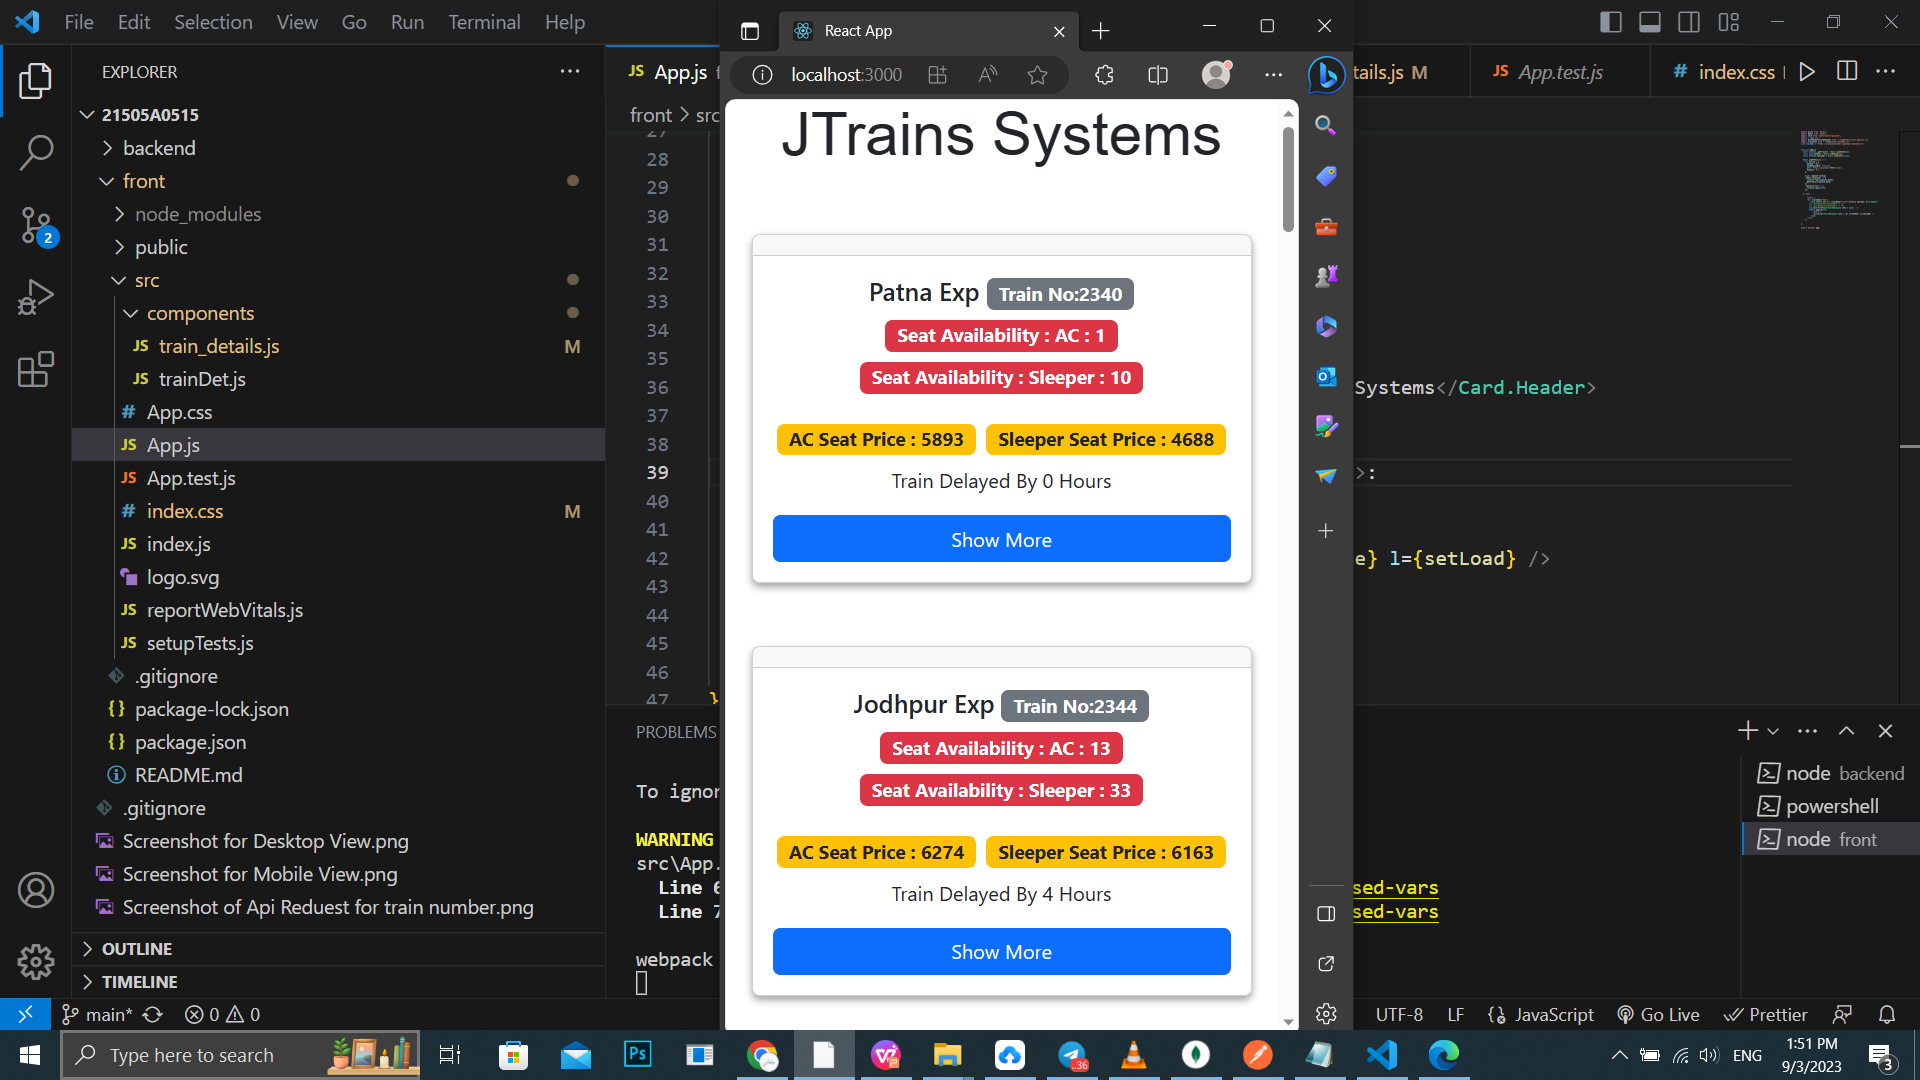
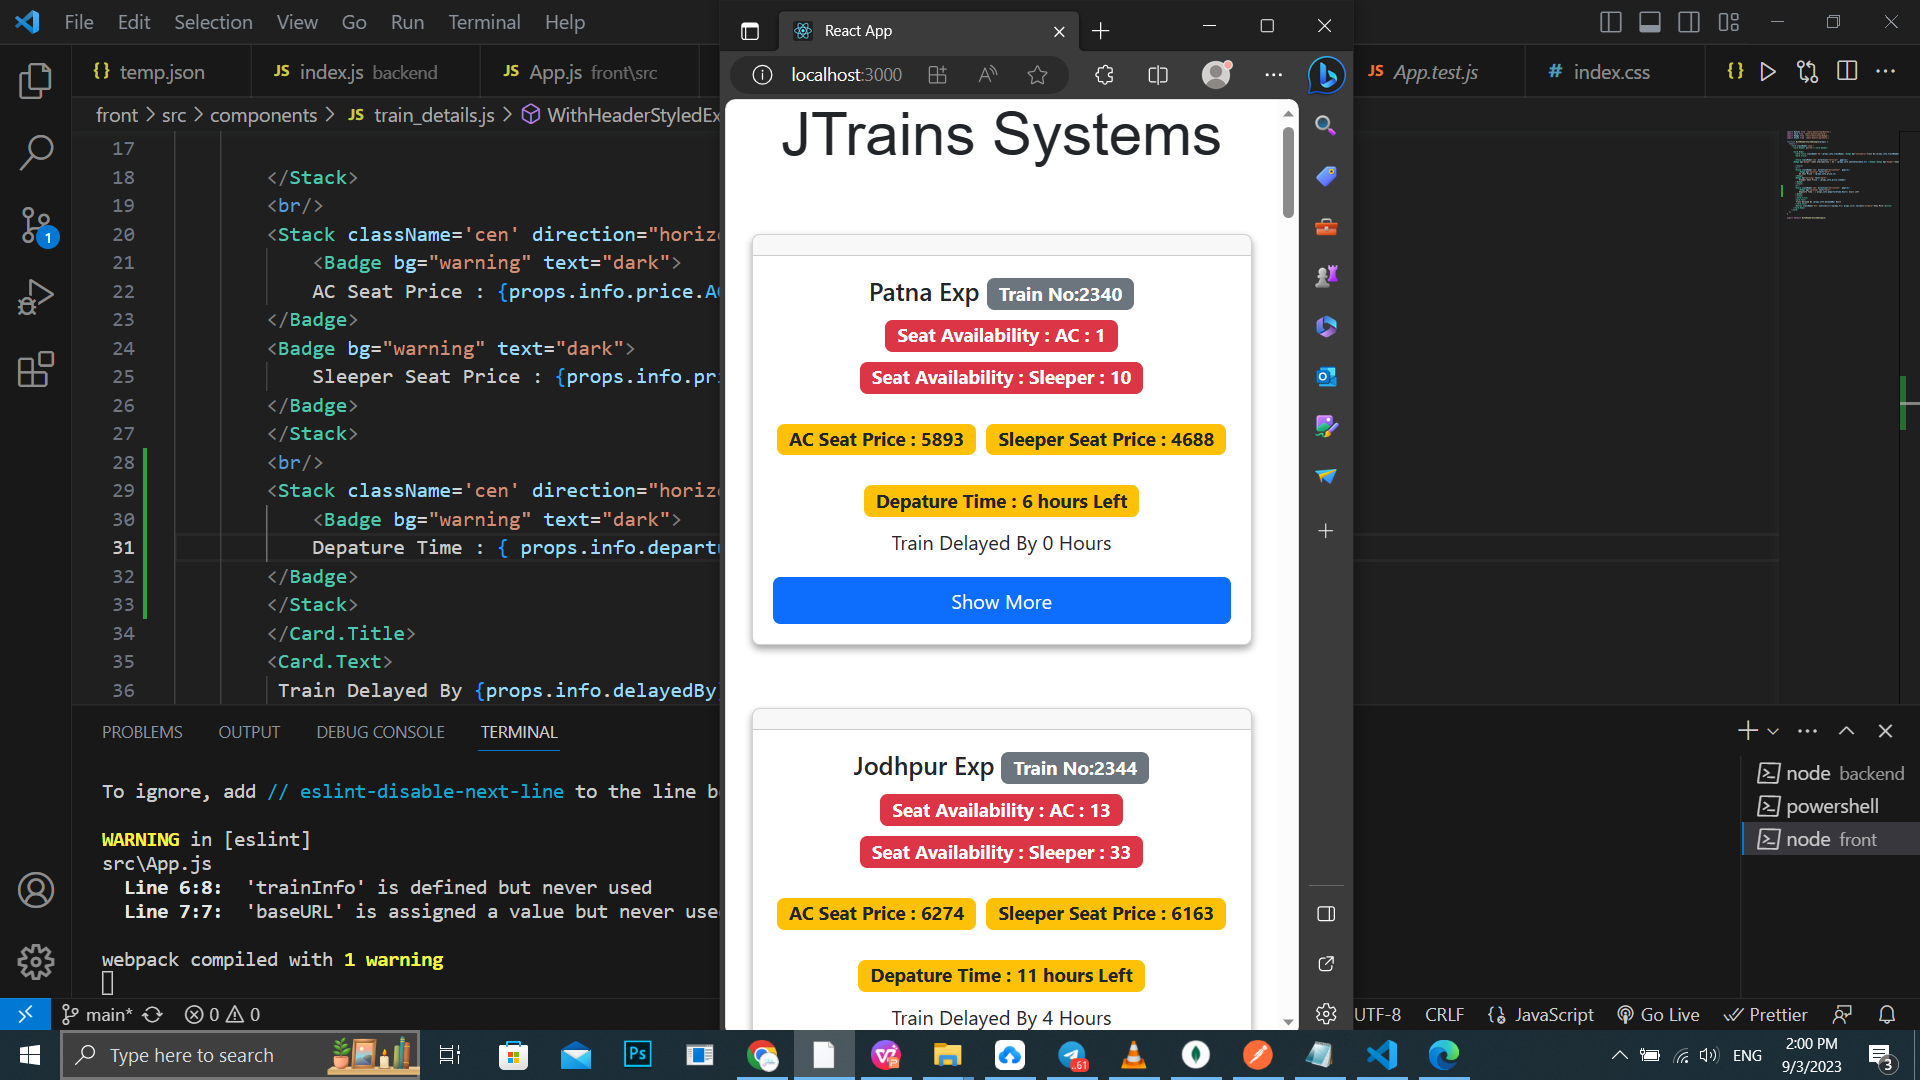
improve ui

diff --git a/front/src/components/train_details.js b/front/src/components/train_details.js
@@ -25,6 +25,12 @@ function WithHeaderStyledExample(props) {
             Sleeper Seat Price : {props.info.price.sleeper}
         </Badge>
         </Stack>
+        <br/>
+        <Stack className='cen' direction="horizontal"  gap={2}>
+            <Badge bg="warning" text="dark">
+            Depature Time : { props.info.departureTime.Hours} hours Left
+        </Badge>
+        </Stack>
         </Card.Title>
         <Card.Text>
          Train Delayed By {props.info.delayedBy} Hours
